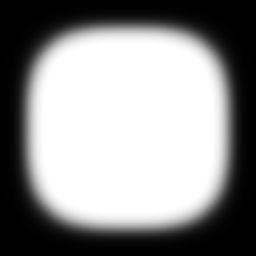
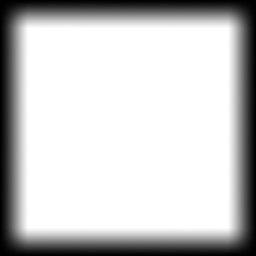
Finished generic environmental effect

diff --git a/js/js_three.js b/js/js_three.js
@@ -1,16 +1,19 @@
 
 // Imports Three.js
 import * as THREE from "https://unpkg.com/three@0.145.0/build/three.module.js";
+
+// Debugging GUI ///////////////////////////////////////////////////////////////
+const gui = new dat.GUI();
+////////////////////////////////////////////////////////////////////////////////
  
 // Waits for css to load
 document.addEventListener("DOMContentLoaded", () => {
 
-    const loader = new THREE.TextureLoader();
+    // Loads used textures
+    const loader = new THREE.TextureLoader();    
+    const map = loader.load("images/map.png")
     const displacementMap = loader.load("images/displacementMap.png")
     const alphaMap = loader.load("images/alphaMap.png")
-
-    // Debugging GUI
-    const gui = new dat.GUI();
 
     // Scene
     const scene = new THREE.Scene();
@@ -28,20 +31,32 @@ document.addEventListener("DOMContentLoaded", () => {
     renderer.setPixelRatio(window.devicePixelRatio);
     renderer.setClearColor(0xffffff, 0);
 
-     // Objects
-     const material = new THREE.MeshStandardMaterial({color: "gray", displacementMap, displacementScale: 0.35, alphaMap, transparent: true, wireframe: true, depthTest: false});
-     const plane = new THREE.Mesh(new THREE.PlaneGeometry(3, 3, 64, 64), material);
-     scene.add(plane);
+     // Main plane
+     const mMaterial = new THREE.MeshStandardMaterial({
+        color: "gray", displacementMap, displacementScale: 0.5, map, alphaMap, transparent: true, depthTest: false, opacity: 0.75
+    }); const mPlane = new THREE.Mesh(new THREE.PlaneGeometry(3, 3, 64, 64), mMaterial);
+    mPlane.rotation.x = 5;
+    scene.add(mPlane);
+
+     // Wireframe plane
+     const wMaterial = new THREE.MeshStandardMaterial({
+        color: "white", displacementMap, displacementScale: 0.5, alphaMap, transparent: true, wireframe: true, depthTest: false, opacity: 0.25
+    }); const wPlane = new THREE.Mesh(new THREE.PlaneGeometry(3, 3, 64, 64), wMaterial);
+    wPlane.rotation.x = 5;
+    scene.add(wPlane);
 
     // Lights
-    const pointLight = new THREE.PointLight(0xffffff, 2);
-    pointLight.position.x = 2;
-    pointLight.position.y = 3;
-    pointLight.position.z = 4;
+    const pointLight = new THREE.PointLight(0x2283d9, 2.3);
+    pointLight.position.x = 6.5;
+    pointLight.position.y = 2;
+    pointLight.position.z = 6.5;
     scene.add(pointLight);
  
-     plane.rotation.x = 5;
-     gui.add(plane.rotation, "x").min(0).max(10);
+    ////////////////////////////////////////////////////////////////////////////////
+     
+     gui.add(wPlane.rotation, "x").min(0).max(10).onChange(() => {
+        mPlane.rotation.x = wPlane.rotation.x;
+     });
      gui.add(pointLight, "intensity").min(0).max(3);
      gui.add(pointLight.position, "x").min(-30).max(30);
      gui.add(pointLight.position, "y").min(-5).max(5);
@@ -51,16 +66,26 @@ document.addEventListener("DOMContentLoaded", () => {
      gui.addColor(col, "color").onChange(() => {
         pointLight.color.set(col.color);
      })
+     ////////////////////////////////////////////////////////////////////////////////
 
-     const clock = new THREE.Clock()
-     
+    // Event handling
+    document.addEventListener("mousemove", animateTerrain);
+    let mouseY = 0;
+    function animateTerrain(event) { mouseY = event.clientY; }
+
     // Main renderer loop
+    const clock = new THREE.Clock();
     function animate() {
 
+        // Rotates env
         const elapsedTime = clock.getElapsedTime();
-        plane.rotation.z = 0.25 * elapsedTime;
+        mPlane.rotation.z = 0.25 * elapsedTime;
+        wPlane.rotation.z = 0.25 * elapsedTime;
 
-        // Natural rotation
+        mPlane.material.displacementScale = 0.4 + mouseY / 4500
+        wPlane.material.displacementScale = 0.4 + mouseY / 4500
+
+        // REnders frame
         requestAnimationFrame(animate);
         renderer.render(scene, camera);
 

diff --git a/css/css_main.css b/css/css_main.css
@@ -21,5 +21,5 @@ body { font-family: Epilogue, Oxygen, Arial, Helvetica, sans-serif; }
 #three_element {
   width: 100%;
   height: 950px;
-  background-color: green;
+  background-color: rgb(49, 49, 49);
 }
